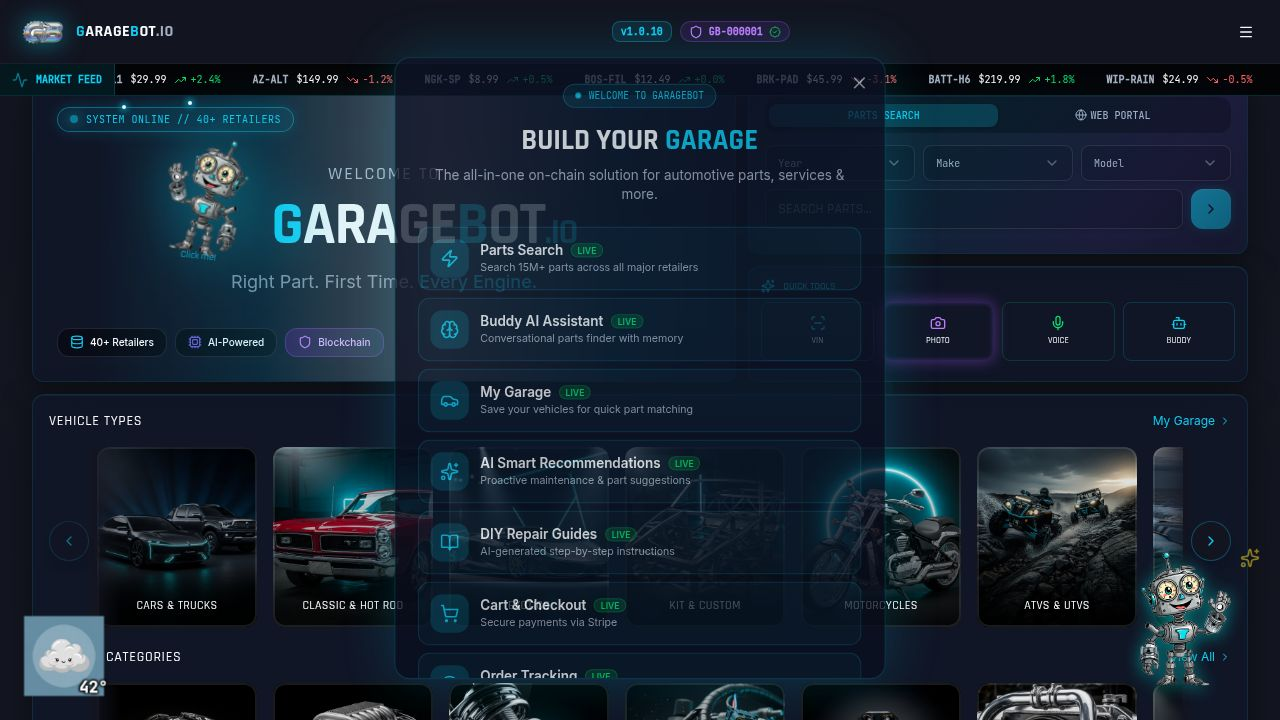
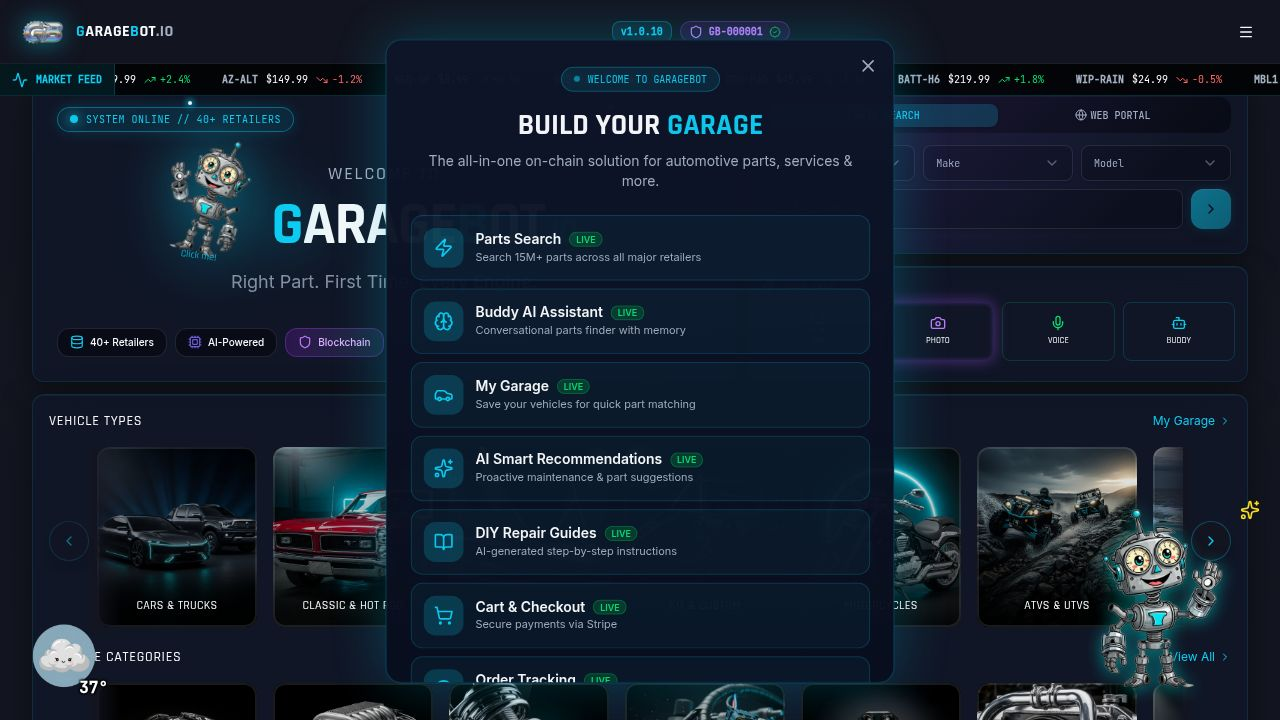
Enlarge the Buddy mascot in pop-ups and on the floating button
Adjusted the Tailwind CSS classes in `AIMascot.tsx` to increase the sizing of the Buddy mascot in chat pop-ups (from `w-24 h-24` to `w-32 h-32`, `sm:w-36 sm:h-36` to `sm:w-48 sm:h-48`, `md:w-44 md:h-44` to `md:w-64 md:h-64`) and on the floating button (from `w-20 h-20` to `w-28 h-28`, `md:w-28 md:h-28` to `md:w-40 md:h-40`, `lg:w-36 lg:h-36` to `lg:w-48 lg:h-48`).

Replit-Commit-Author: Agent
Replit-Commit-Session-Id: 53616f38-5e49-47f4-807d-edcded36485b
Replit-Commit-Checkpoint-Type: full_checkpoint
Replit-Commit-Event-Id: 23f7bd6c-84ad-4b0e-ae09-0b5fcffa0e36
Replit-Commit-Screenshot-Url: https://storage.googleapis.com/screenshot-production-us-central1/61f82902-728d-4d48-9085-7700c909b4d3/53616f38-5e49-47f4-807d-edcded36485b/hWB9N9D

diff --git a/client/src/components/AIMascot.tsx b/client/src/components/AIMascot.tsx
@@ -695,7 +695,7 @@ export default function AIMascot({ mascotName = "Buddy" }: AIMascotProps) {
               <motion.img
                 src={isLoading ? mascotThinking : mascotWaving}
                 alt="Buddy the GarageBot mascot"
-                className="w-24 h-24 sm:w-36 sm:h-36 md:w-44 md:h-44 object-contain ml-4 sm:ml-8"
+                className="w-32 h-32 sm:w-48 sm:h-48 md:w-64 md:h-64 object-contain ml-4 sm:ml-8"
                 style={{ 
                   filter: 'drop-shadow(0 4px 12px rgba(0, 255, 255, 0.4)) drop-shadow(0 2px 4px rgba(0, 0, 0, 0.3))',
                 }}
@@ -787,7 +787,7 @@ export default function AIMascot({ mascotName = "Buddy" }: AIMascotProps) {
             <motion.img 
               src={mascotWaving} 
               alt="Chat with Buddy" 
-              className="w-20 h-20 md:w-28 md:h-28 lg:w-36 lg:h-36 object-contain"
+              className="w-28 h-28 md:w-40 md:h-40 lg:w-48 lg:h-48 object-contain"
               style={{ 
                 filter: 'drop-shadow(0 2px 8px rgba(0, 255, 255, 0.5)) drop-shadow(0 2px 4px rgba(0, 0, 0, 0.4))',
               }}
